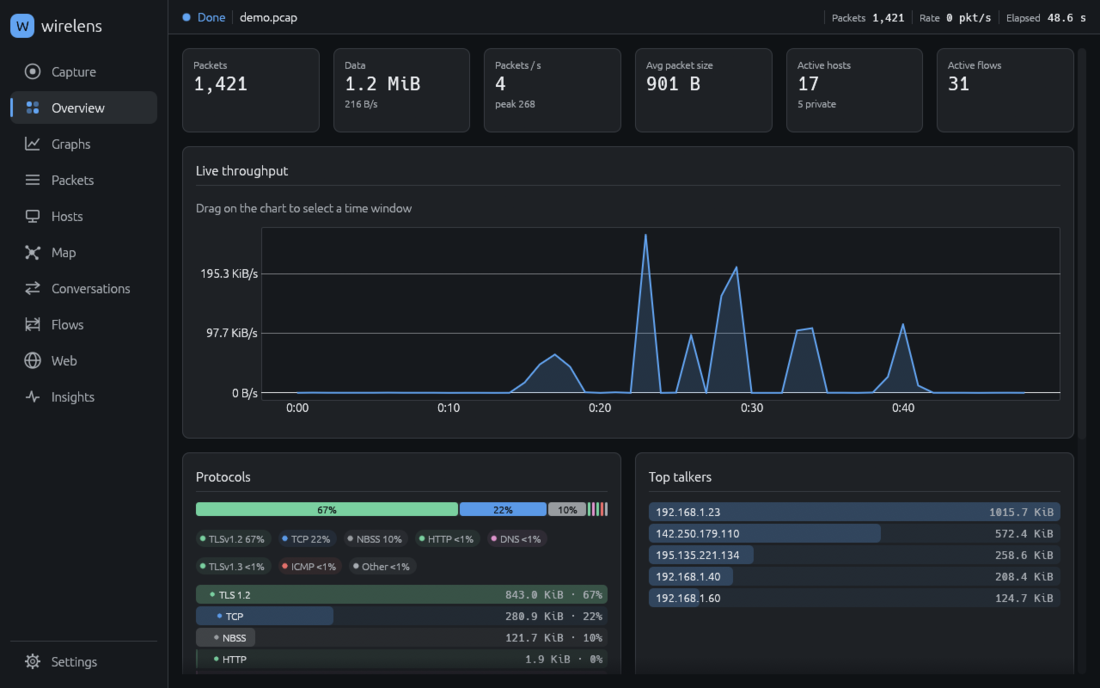
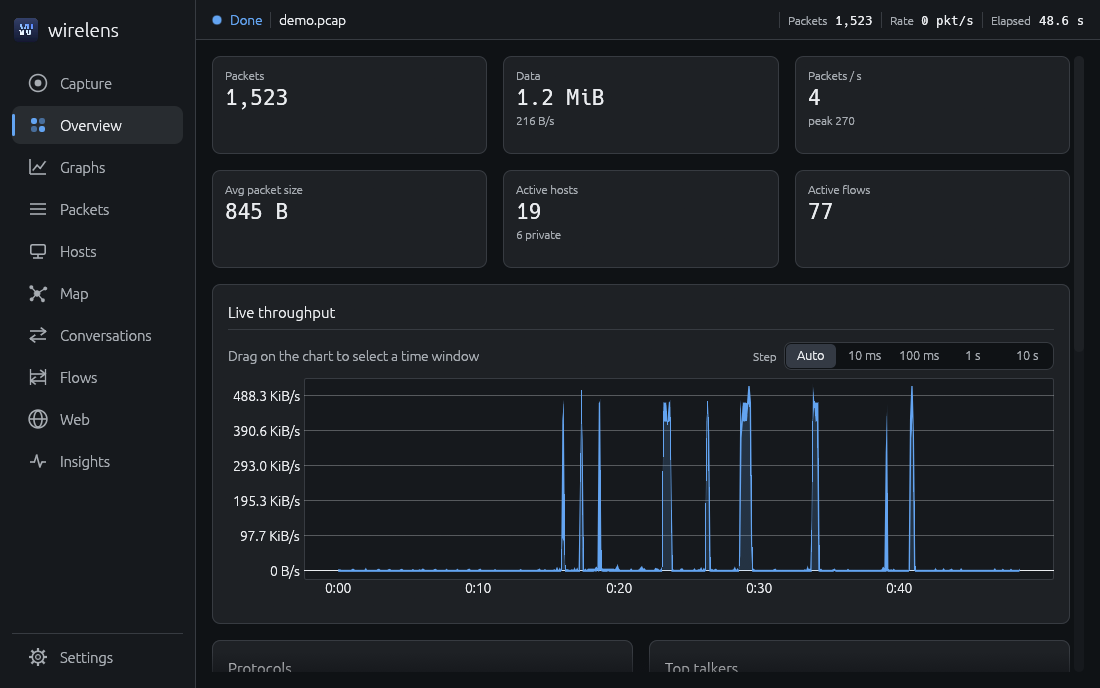
Retake the screenshots on the demo capture and update the README [skip ci]
Nine pages in both themes (Hosts, Insights and the Locations settings are
new), a caption that says the capture is invented, the DB-IP attribution, and
descriptions that match the current features.

diff --git a/README.md b/README.md
@@ -23,28 +23,39 @@ meant to replace Wireshark or Sniffnet, and it covers only a small part of what 
 
 ## Screenshots
 
-Taken on a small synthetic capture (`tests/fixtures/demo.pcap`: a laptop, a TV, a phone and a
-NAS on a home network, with DNS, TLS, plain HTTP, SMB-style transfers and a retransmission
-burst), so you can open the same file and compare: `wirelens tests/fixtures/demo.pcap`.
+Taken on a small synthetic capture, `tests/fixtures/demo.pcap`: a laptop, a TV, a phone and a NAS on
+an invented home network, talking to well-known public services over DNS, TLS, plain HTTP and
+SMB-style transfers, with a retransmission burst and three made-up behaviours for Insights (a visitor
+scanning the NAS, a phone calling a documentation address at a steady rhythm, and very long DNS
+names). Nothing in it comes from a real network. `tests/fixtures/gen_demo_capture.py` writes it, so
+you can open the same file and compare: `wirelens tests/fixtures/demo.pcap`.
 
-| Overview | Packets | Map |
+| Overview | Packets | Hosts |
 | :---: | :---: | :---: |
-| <img src="assets/screenshots/overview-dark.png" alt="Overview, dark theme"> | <img src="assets/screenshots/packets-dark.png" alt="Packets, dark theme"> | <img src="assets/screenshots/map-dark.png" alt="Map, dark theme"> |
+| <img src="assets/screenshots/overview-dark.png" alt="Overview, dark theme"> | <img src="assets/screenshots/packets-dark.png" alt="Packets, dark theme"> | <img src="assets/screenshots/hosts-dark.png" alt="Hosts, dark theme"> |
 
-| Web | Flows | Graphs |
+| Map | Web | Insights |
 | :---: | :---: | :---: |
-| <img src="assets/screenshots/web-dark.png" alt="Web, dark theme"> | <img src="assets/screenshots/flows-dark.png" alt="Flows, dark theme"> | <img src="assets/screenshots/graphs-dark.png" alt="Graphs, dark theme"> |
+| <img src="assets/screenshots/map-dark.png" alt="Map, dark theme"> | <img src="assets/screenshots/web-dark.png" alt="Web, dark theme"> | <img src="assets/screenshots/insights-dark.png" alt="Insights, dark theme"> |
+
+| Flows | Graphs | Settings |
+| :---: | :---: | :---: |
+| <img src="assets/screenshots/flows-dark.png" alt="Flows, dark theme"> | <img src="assets/screenshots/graphs-dark.png" alt="Graphs, dark theme"> | <img src="assets/screenshots/settings-dark.png" alt="Settings, dark theme"> |
 
 <details>
 <summary>Light theme</summary>
 
-| Overview | Packets | Map |
+| Overview | Packets | Hosts |
 | :---: | :---: | :---: |
-| <img src="assets/screenshots/overview-light.png" alt="Overview, light theme"> | <img src="assets/screenshots/packets-light.png" alt="Packets, light theme"> | <img src="assets/screenshots/map-light.png" alt="Map, light theme"> |
+| <img src="assets/screenshots/overview-light.png" alt="Overview, light theme"> | <img src="assets/screenshots/packets-light.png" alt="Packets, light theme"> | <img src="assets/screenshots/hosts-light.png" alt="Hosts, light theme"> |
 
-| Web | Flows | Graphs |
+| Map | Web | Insights |
 | :---: | :---: | :---: |
-| <img src="assets/screenshots/web-light.png" alt="Web, light theme"> | <img src="assets/screenshots/flows-light.png" alt="Flows, light theme"> | <img src="assets/screenshots/graphs-light.png" alt="Graphs, light theme"> |
+| <img src="assets/screenshots/map-light.png" alt="Map, light theme"> | <img src="assets/screenshots/web-light.png" alt="Web, light theme"> | <img src="assets/screenshots/insights-light.png" alt="Insights, light theme"> |
+
+| Flows | Graphs | Settings |
+| :---: | :---: | :---: |
+| <img src="assets/screenshots/flows-light.png" alt="Flows, light theme"> | <img src="assets/screenshots/graphs-light.png" alt="Graphs, light theme"> | <img src="assets/screenshots/settings-light.png" alt="Settings, light theme"> |
 
 </details>
 
@@ -111,13 +122,15 @@ Environment variables:
 | --- | --- |
 | `SSLKEYLOGFILE` | TLS key log passed to `tshark`, so HTTPS traffic can be decrypted. |
 | `WIRELENS_CONFIG_DIR` | Directory for the preferences file (defaults to the user config directory). |
+| `WIRELENS_GEO_DIR` | Extra folder searched for location databases (`.mmdb`). |
 
 ## What it does
 
 - **Capture**: interface list grouped by type with live rates, capture options (filter,
   promiscuous, snap length, ring buffer, auto-stop), recent files.
 - **Packets**: virtualized packet list that stays responsive with about a million rows, display
-  filter bar with field completion and quick-filter chips, find (string, regex, hex),
+  filter bar with field completion (and, after an operator, the hosts and ports of the capture)
+  plus quick-filter chips, find (string, regex, hex),
   dissection tree with click-to-filter, hex view, custom columns, time formats, bookmarks,
   stream following, export (pcap subsets, CSV, JSON, HTML report).
 - **Overview, Hosts, Conversations**: totals, throughput, protocol mix, top talkers, with an
@@ -128,8 +141,8 @@ Environment variables:
   of encrypted flows.
 - **Flows**: sequence diagram of a conversation, plus TCP time-sequence, throughput, RTT and
   window-size graphs.
-- **Web**: HTTP requests paired with responses (headers, pretty or raw body, image preview,
-  `curl` export) and TLS sessions (SNI, version, cipher, ALPN, JA3 / JA4 fingerprints) for HTTPS;
+- **Web**: HTTP requests paired with responses (headers, pretty or raw JSON, readable HTML,
+  image preview, `curl` export) and TLS sessions (SNI, version, cipher, ALPN, JA3 / JA4 fingerprints) for HTTPS;
   extracted objects.
 - **Insights**: plain-language findings (including port scans, sweeps, beaconing and odd DNS
   names), expert info, protocol hierarchy, DNS log.
@@ -144,6 +157,9 @@ or to add your own MaxMind-format `.mmdb` files (GeoLite2, DB-IP Lite). They are
 `~/.local/share/wirelens/geo`; wirelens also reads the qBittorrent `GeoDB` folder, `/usr/share/GeoIP`
 and the folder named by `WIRELENS_GEO_DIR`. Lookups are offline. The only thing wirelens downloads is
 the file you ask for with the Download button.
+
+The country and network shown in the screenshots come from the DB-IP Lite databases, licensed
+[CC BY 4.0](https://creativecommons.org/licenses/by/4.0/): IP Geolocation by [DB-IP](https://db-ip.com).
 
 ## Releases
 
@@ -164,8 +180,8 @@ installed separately on Windows and macOS.
 | `wl-panels` | The pages (packets, overview, map, flows, web, settings, ...). |
 | `wl-app` | The `wirelens` binary: window, state, background jobs. |
 
-`tests/fixtures/` holds the small capture files the tests read, `assets/screenshots/` the README
-images, and `assets/logo/` the logo (SVG sources in a blue and a dark version, PNG, `.ico` and
+`tests/fixtures/` holds the small capture files the tests read (with the scripts that write the
+synthetic ones), `assets/screenshots/` the README images (taken on `demo.pcap`), and `assets/logo/` the logo (SVG sources in a blue and a dark version, PNG, `.ico` and
 `.icns` exports, and the GitHub social preview image).
 
 ## Tests
@@ -181,6 +197,9 @@ Tests that need `tshark` or loopback capture rights skip themselves when those a
 - Everything depends on the installed Wireshark version; field names follow `tshark` 4.x.
 - Files over a few hundred thousand packets load quickly but `tshark` itself uses a lot of
   memory on them.
+- The filter suggestions after an operator cover addresses and ports, not names.
+- The findings in Insights are heuristics with fixed thresholds (for example 20 ports for a scan, 8
+  connections for a steady rhythm); expect false positives from polling and keep-alives.
 - HTTP/2 and QUIC handling is best effort. Chunked bodies without a `Content-Length` are
   only partly accounted for.
 - Windows and macOS have not been tried.

diff --git a/CHANGELOG.md b/CHANGELOG.md
@@ -5,6 +5,14 @@ and the project follows [Semantic Versioning](https://semver.org/).
 
 ## [Unreleased]
 
+### Changed
+- **The Locations page writes your home folder as `~`**, so the folder of the databases reads
+  `~/.local/share/wirelens/geo` instead of a full path.
+- **A richer demo capture and new screenshots.** `tests/fixtures/demo.pcap` now also holds a visitor scanning the NAS, a
+  phone calling an address at a steady rhythm and very long DNS names, so Insights has something to show, and
+  `tests/fixtures/gen_demo_capture.py` writes it. The README shows nine pages instead of six (Hosts with its locations,
+  Insights and the Locations settings were added) in both themes, all taken on that invented network.
+
 ## [0.4.0] - 2026-11-21
 
 ### Added
